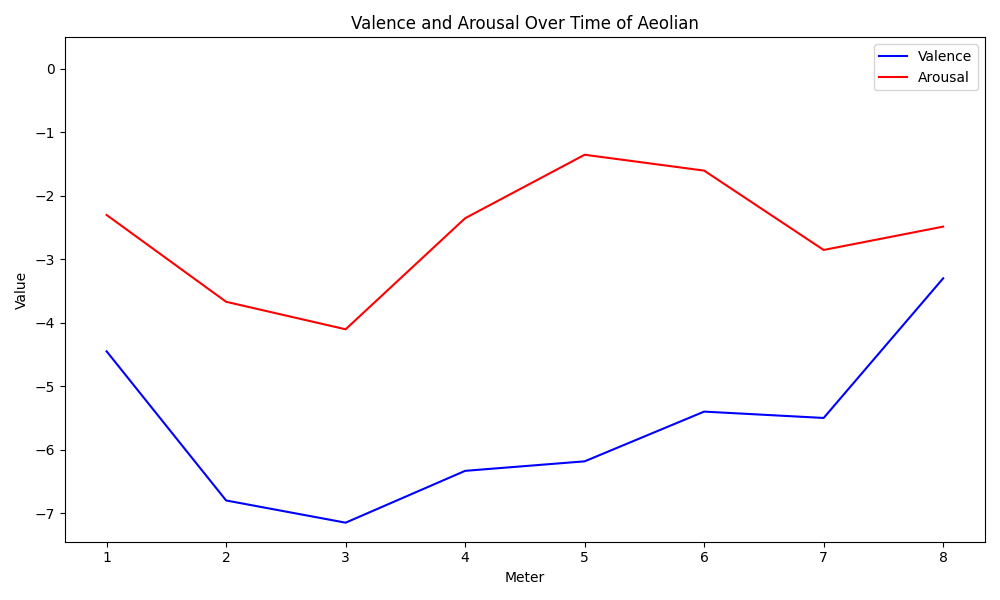
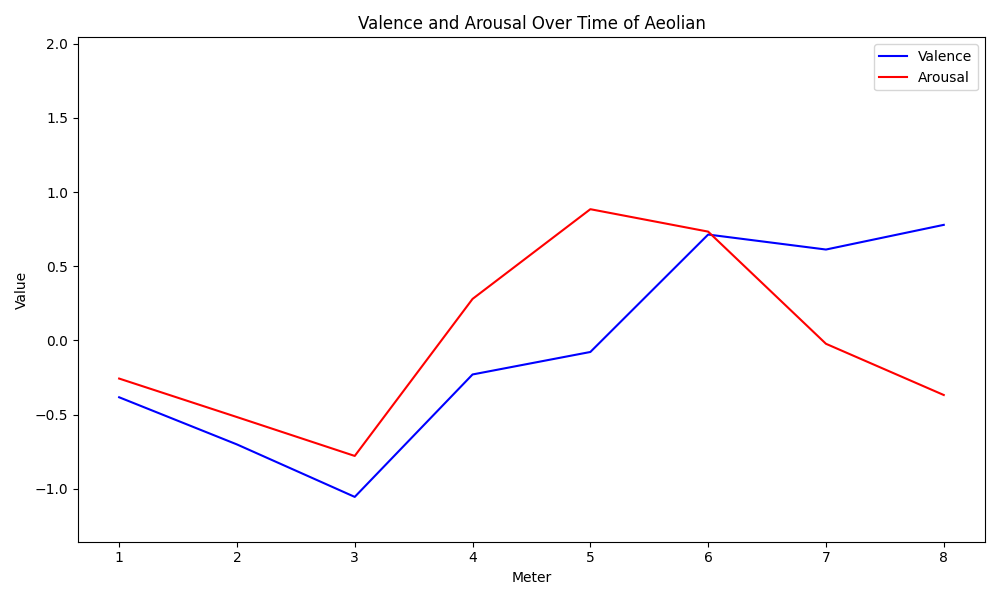
Standarized Plots

diff --git a/src/parseXML.py b/src/parseXML.py
@@ -5,6 +5,7 @@ from music21 import converter, analysis, tempo, dynamics
 import xml.etree.ElementTree as ET
 from pathlib import Path
 from create_plot import plot_valence_arousal
+import numpy as np
 
 # create a graph and create instances of the relative Ontology classes of the musical features found in the file
 # use these instanes to calculate valence and arousal scores
@@ -457,6 +458,12 @@ def calculate_valence_arousal(track):
         ar_value += calculate_tempo(tempo_class)
         return ar_value, val_value
 
+
+
+def standarize(val, mean, std):
+    """ function to standardize a value """
+    return (val - mean) / std
+
 if __name__ == "__main__":
 
     # create instances for all ontology classes, this is important for reasoning
@@ -628,8 +635,21 @@ if __name__ == "__main__":
                 print(mf)
             print(meter.hasValenceValue, meter.hasArousalValue)
 
+        # standarize the values:
+        valence_arr = np.array(list(avg_val.values()))
+        arousal_arr = np.array(list(avg_ar.values()))
+
+        val_mean, val_std = valence_arr.mean(), valence_arr.std()
+        aro_mean, aro_std = arousal_arr.mean(), arousal_arr.std()
+
+        standarized_valence = []
+        standarized_arousal = []
+        for val in avg_val.values():
+            standarized_valence.append(standarize(val, val_mean, val_std))
+        for ar in avg_ar.values():
+            standarized_arousal.append(standarize(ar, aro_mean, aro_std))
         # plot the valence and arousal values as the meters progress
-        plot_valence_arousal(list(avg_val.values()), list(avg_ar.values()), len(meter_list), title)
+        plot_valence_arousal(standarized_valence, standarized_arousal, len(meter_list), title)
 
 
 
